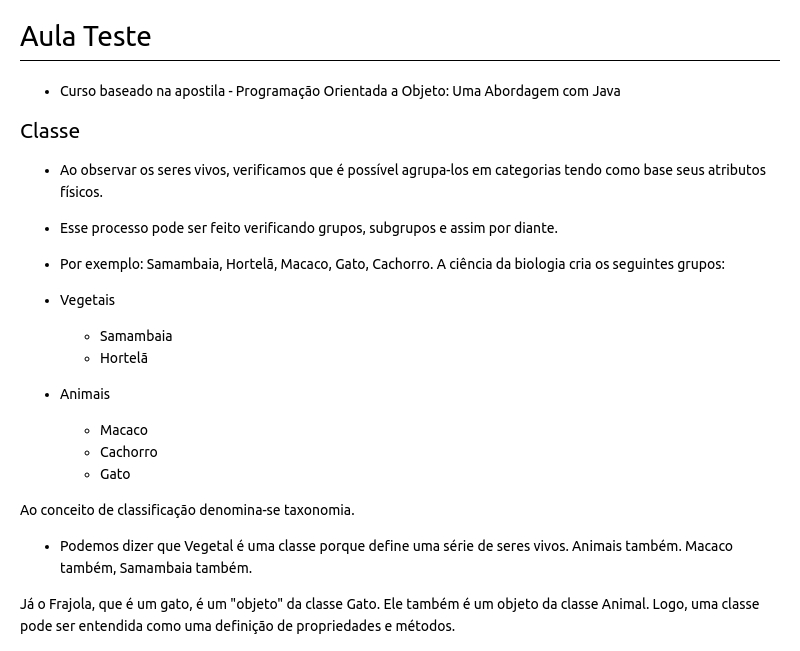
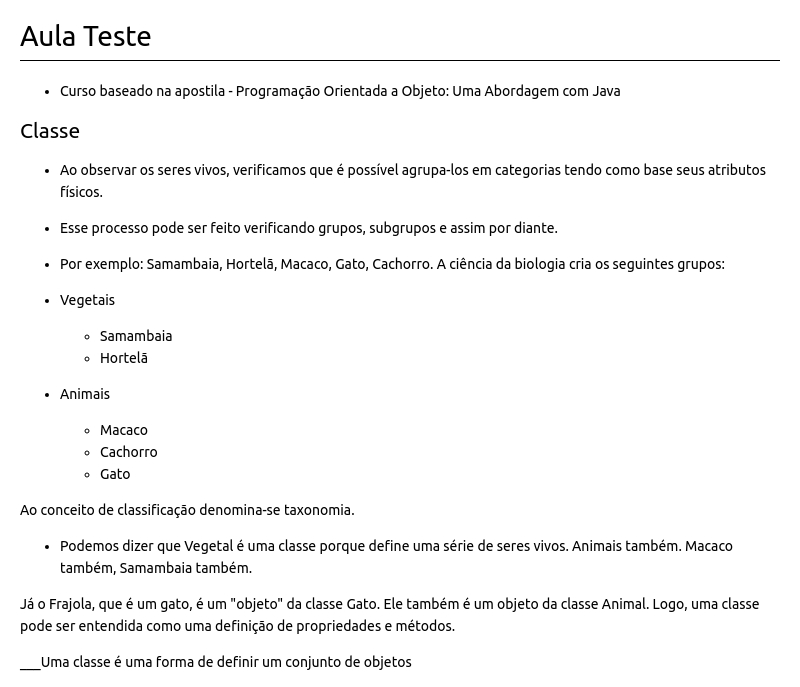
aula teste finalizada

diff --git a/aula_teste/aula.html b/aula_teste/aula.html
@@ -401,6 +401,7 @@ code {
 <li>Podemos dizer que Vegetal é uma classe porque define uma série de seres vivos. Animais também. Macaco também, Samambaia também.</li>
 </ul>
 <p>Já o Frajola, que é um gato, é um &quot;objeto&quot; da classe Gato. Ele também é um objeto da classe Animal. Logo, uma classe pode ser entendida como uma definição de propriedades e métodos.</p>
+<p>___Uma classe é uma forma de definir um conjunto de objetos</p>
 
 </body>
 </html>

diff --git a/aula_teste/aula.md b/aula_teste/aula.md
@@ -1,6 +1,7 @@
 # Aula Teste
 
 * Curso baseado na apostila - Programação Orientada a Objeto: Uma Abordagem com Java
+* https://www.w3schools.com/java/tryjava.asp?filename=demo_class_method
 
 ## Classe 
 
@@ -23,3 +24,71 @@ Ao conceito de classificação denomina-se taxonomia.
 * Podemos dizer que Vegetal é uma classe porque define uma série de seres vivos. Animais também. Macaco também, Samambaia também.
 
 Já o Frajola, que é um gato, é um "objeto" da classe Gato. Ele também é um objeto da classe Animal. Logo, uma classe pode ser entendida como uma definição de propriedades e métodos.
+
+___Uma classe é uma forma de definir um conjunto de objetos___
+
+* Possui nome
+* Possui atributos
+* Possui Métodos
+
+
+```
+public class Car {
+
+    // atributos
+    private String name; // nome
+    private String color; // cor
+    private int numberOfDoors; // número de portas
+    private int power; // quantos cavaos
+    private int engineCapacity; // cilindrada
+
+
+    // métodos
+    public void turnOnCar(Bo) {
+        // logic code...     
+    }
+}
+
+```
+
+__Classe__
+* Possuem um nome
+* podem ser público/privados
+
+__Atributos__
+* Todo atributo pode ser públic/privado
+* Atributos podem ser primitivos ou não;
+* Atibutos contem valores que são usados pela classe.
+
+
+__Métodos__
+* Executa algum processo lógico - idem função da programação estruturada.
+* Podem ser públicos/privados
+
+
+__Demonstrativo__
+```
+public class Main {
+  public static void main(String[] args) {
+	Cliente cliente = new Cliente();
+    
+  }
+}
+
+
+class Cliente {	
+    private String nome;
+    private String sobreNome;
+    private String endereco;
+    private int idade;
+	private String genero;
+    private String profissao;
+    private float massa;
+    private boolean temCarro;
+    
+    public void setNome(String nome) {
+    	this.nome = nome;
+    }
+}
+```
+
